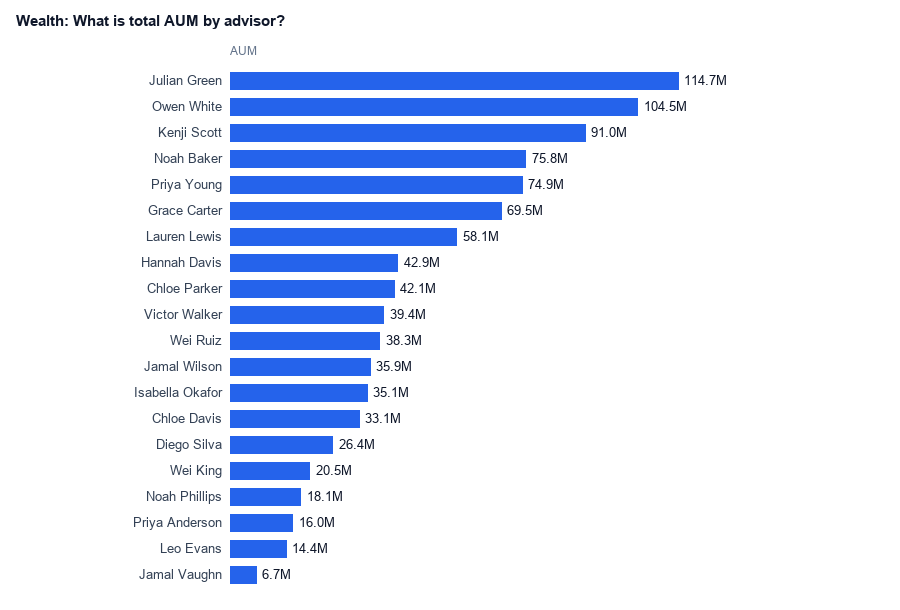
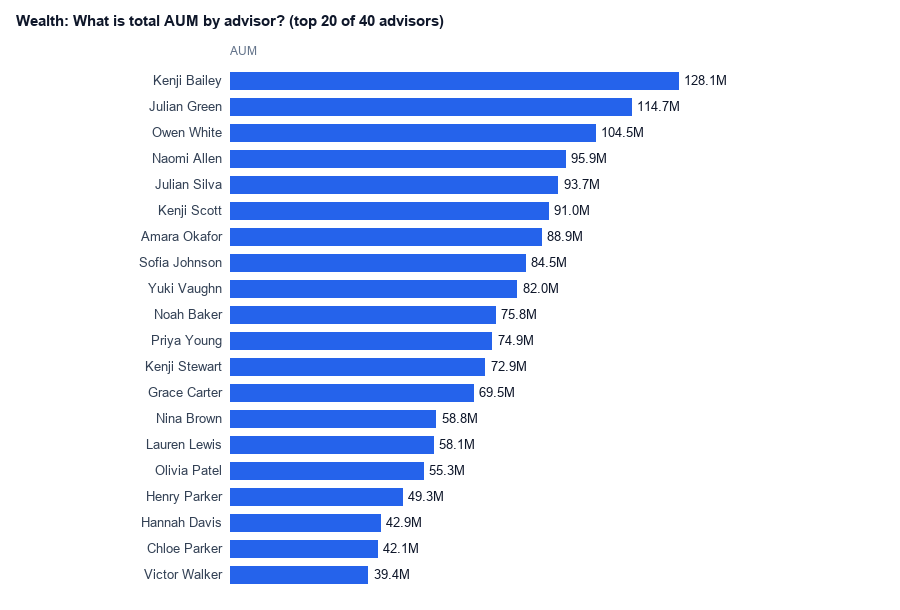
Fix two inaccurate statements in the sample results
Wealth AUM range covers 40 advisors (USD 7M to 128M, three above 100M), not
the top 20. Asset Management's second-largest strategy is Multi-Asset
Balanced (USD 15.2B), not Liability-Driven Investing. Chart now shows the
top 20 of 40 advisors.

diff --git a/docs/TALK_TRACK.md b/docs/TALK_TRACK.md
@@ -28,7 +28,7 @@ A fresh draft written from the sample query results in [SAMPLE_QUESTIONS.md](SAM
 
 **Follow-up ask:** "Which households have had fewer than two interactions in the last quarter and more than 1M USD AUM?"
 
-**Also available:** total AUM by advisor ranges from 7M USD to 115M USD across the top 20, with two advisors above 100M USD. Use it to show where an advisor's attention is concentrated.
+**Also available:** total AUM by advisor ranges from 7M USD to 128M USD across 40 advisors, with three above 100M USD. Use it to show where an advisor's attention is concentrated.
 
 **Land it:** "This turns a retention problem into a list of households to call this week."
 
@@ -54,7 +54,7 @@ A fresh draft written from the sample query results in [SAMPLE_QUESTIONS.md](SAM
 
 **Ask:** "What is AUM by strategy?"
 
-**What the data shows:** Private Credit leads at 16.3B USD, then Liability-Driven Investing at 14.9B USD.
+**What the data shows:** Private Credit leads at 16.3B USD, then Multi-Asset Balanced at 15.2B USD.
 
 **Second ask:** "Show the pipeline by stage with total amount." RFP Received holds the most at 14.0B USD, then Finals Presentation at 7.6B USD.
 

diff --git a/docs/SAMPLE_QUESTIONS.md b/docs/SAMPLE_QUESTIONS.md
@@ -167,7 +167,7 @@ Semantic model template: `Cumulus_Lending_SDM` | Persona: Loan operations manage
 
 ![What is total AUM by advisor?](sample-queries/img/04-wealth-what-is-total-aum-by-advisor.png)
 
-- Finding: Wide spread across the top 20 advisors: AUM ranges from USD 7M to USD 115M, with the top two above USD 100M.
+- Finding: Wide spread across all 40 advisors: AUM ranges from USD 7M to USD 128M, and 3 advisors hold more than USD 100M. The chart shows the top 20 of 40.
 - Chart fit: High. Ranked bars show the spread at a glance.
 
 **Compare interactions per household, churned vs retained**
@@ -197,7 +197,7 @@ Semantic model template: `Cumulus_Lending_SDM` | Persona: Loan operations manage
 
 ![What is AUM by strategy?](sample-queries/img/08-asset-management-what-is-aum-by-strategy.png)
 
-- Finding: Private Credit (USD 16.3B) and Liability-Driven Investing (USD 14.9B) lead.
+- Finding: Private Credit (USD 16.3B) and Multi-Asset Balanced (USD 15.2B) lead.
 - Chart fit: High. Ranked bars with 8 clear categories.
 
 **Pipeline by stage with total amount**
